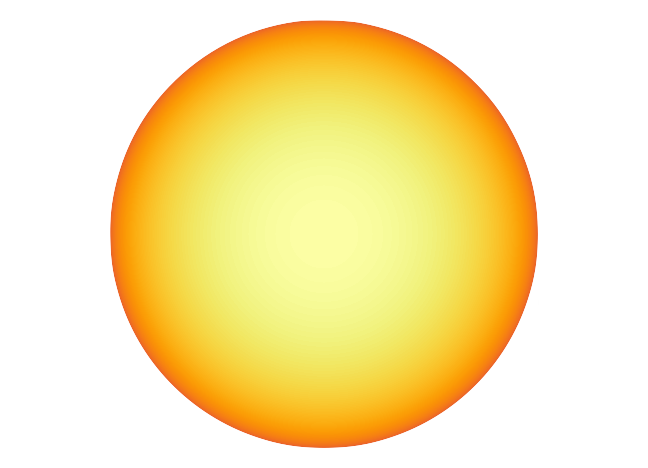
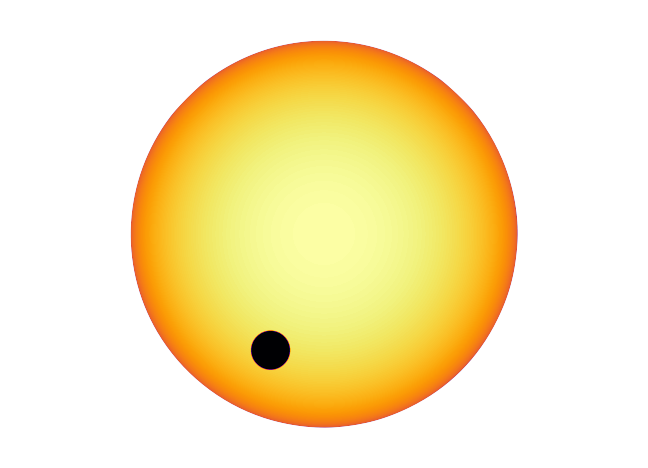
Updated `README.md` with new image and blurb

Changed region(s): [[0.1543, 0.0299, 0.8333, 0.9573]]

diff --git a/README.md b/README.md
@@ -1,6 +1,6 @@
 # flatstar
 
-`flatstar` is a pure-Python tool for drawing stellar disks with scientifically-accurate limb darkening. Each pixel has an accurate fractional intensity in relation to the total stellar intensity of `1.0`. It is ideal for ray-tracing simulations of stars and planetary transits.
+`flatstar` is a pure-Python tool for drawing stellar disks with scientifically-rigorous limb darkening. Each pixel has an accurate fractional intensity in relation to the total stellar intensity of `1.0`. It is ideal for ray-tracing simulations of stars and planetary transits.
 
 [![Build Status](https://travis-ci.com/ladsantos/flatstar.svg?branch=main)](https://travis-ci.com/ladsantos/flatstar) [![Coverage Status](https://coveralls.io/repos/github/ladsantos/flatstar/badge.svg?branch=main)](https://coveralls.io/github/ladsantos/flatstar?branch=main)
 [![Documentation Status](https://readthedocs.org/projects/flatstar/badge/?version=latest)](https://flatstar.readthedocs.io/en/latest/?badge=latest)
@@ -16,6 +16,7 @@
 * Supersampling for the situations where you need coarse arrays but do not want to lose precision in stellar disk intensity (i.e., no hard pixel boundaries).
 * Upscaling for the situations where you want to save on computation time but need high-resolution intensity maps (the price to pay here is that there is some precision loss in intensities).
 * Resampling is done with the C-libraries of `pillow`, which means they are as fast as it goes.
+* You can add planetary transits with pixel-perfect settings for impact parameter and first/fourth contacts.
 
 ## Installation
 
